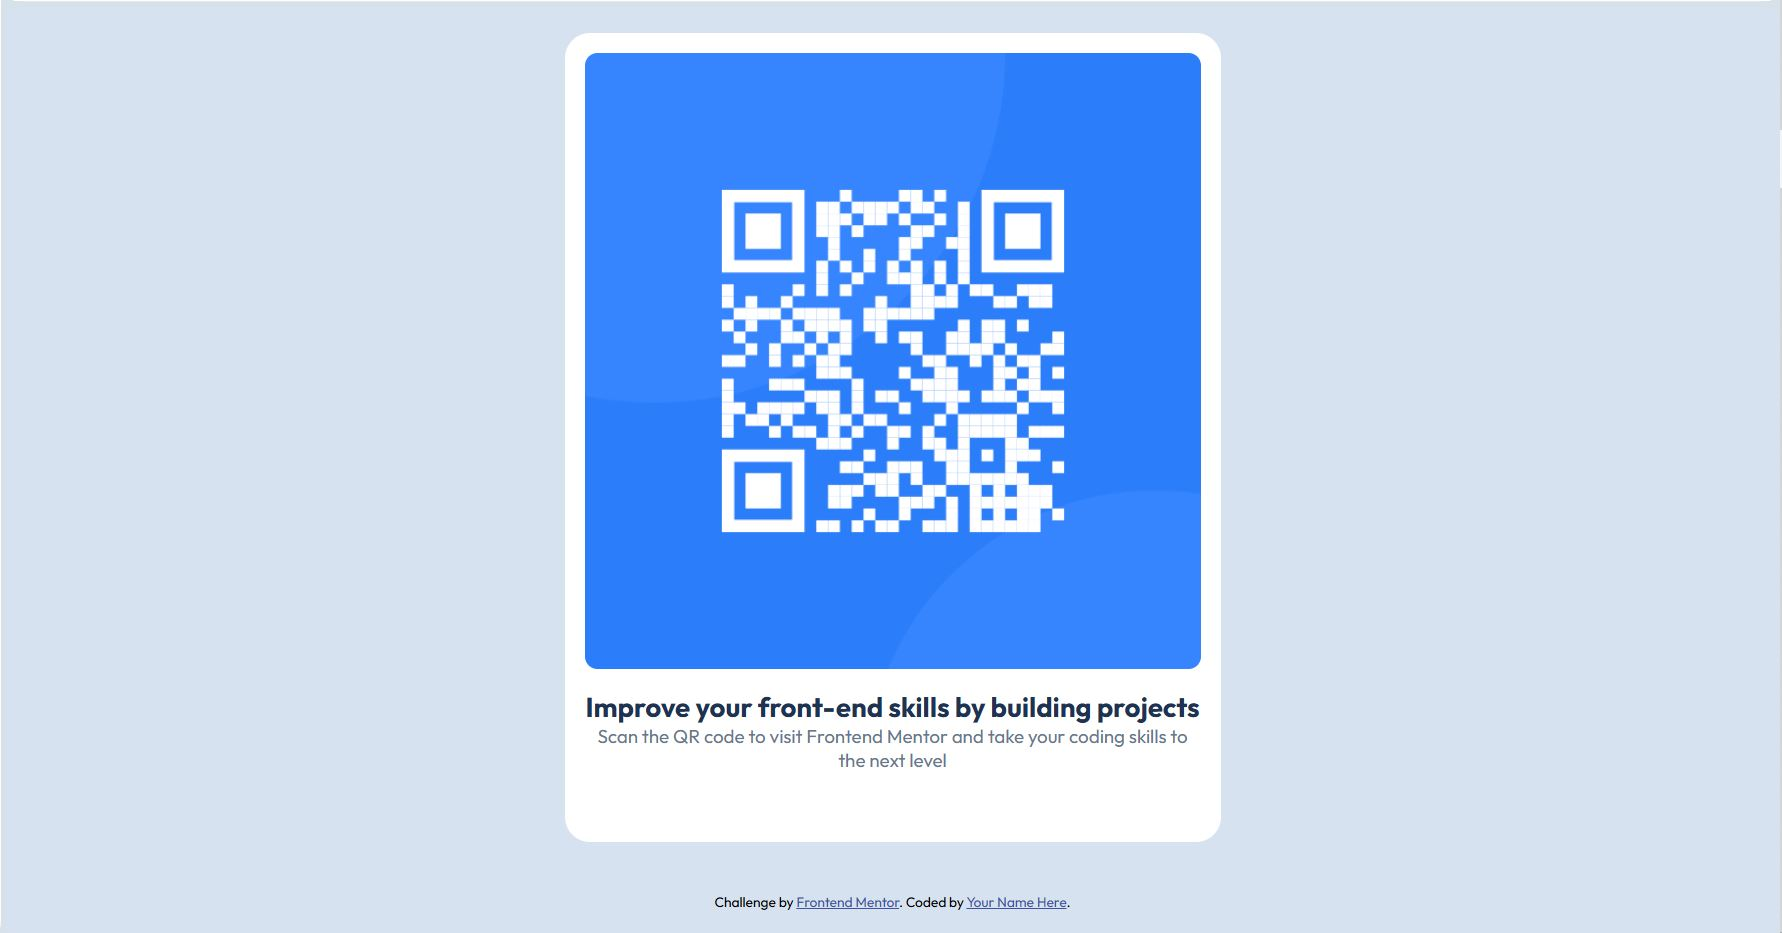
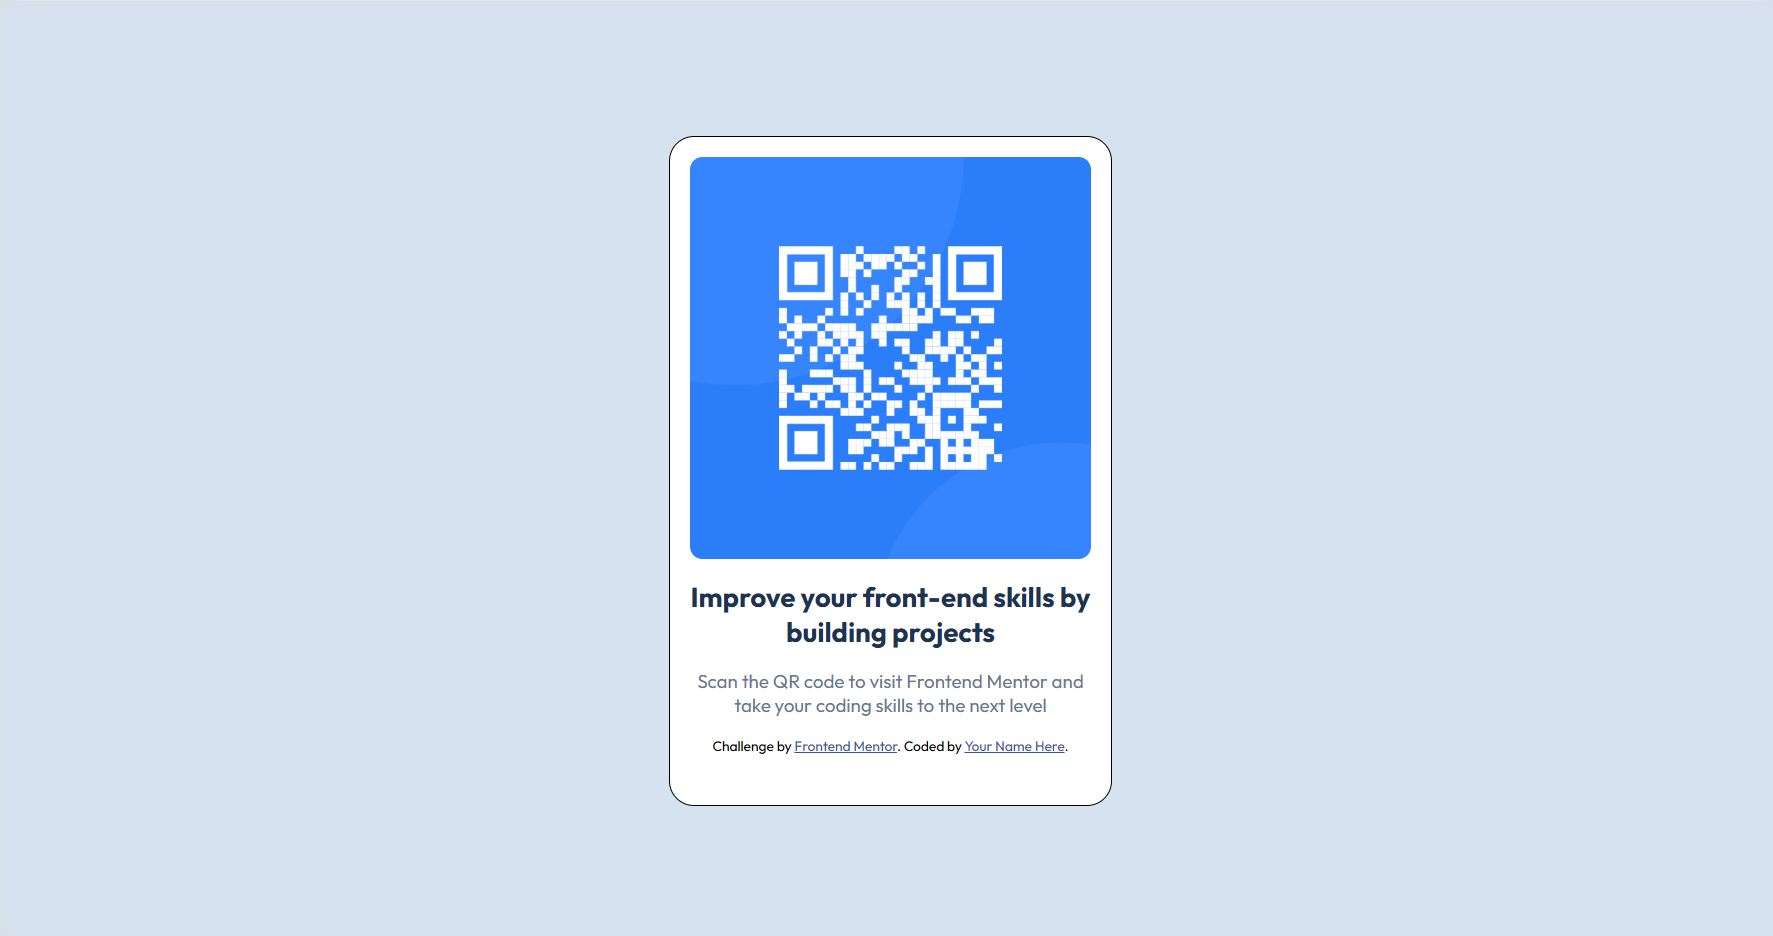
Accesibility: corrected accesibility error in HTML file

Changed region(s): [[0.3102, 0.0311, 0.6825, 0.9014], [0.4033, 0.9636, 0.5894, 0.9946], [0.9927, 0.1554, 1.0, 0.1865]]

diff --git a/style.css b/style.css
@@ -12,19 +12,19 @@
 
 /* CSS variables */
 
-:root{
-  --ff:"Outfit", sans-serif;
+:root {
+  --ff: "Outfit", sans-serif;
 
-  --primary-light-clr:hsl(0, 0%, 100%);
-  --primary-dark-clr:hsl(212, 45%, 89%);
-  --secondary-light-clr:hsl(216, 15%, 48%);
-  --secondary-dark-clr:hsl(218, 44%, 22%);
+  --primary-light-clr: hsl(0, 0%, 100%);
+  --primary-dark-clr: hsl(212, 45%, 89%);
+  --secondary-light-clr: hsl(216, 15%, 48%);
+  --secondary-dark-clr: hsl(218, 44%, 22%);
 
-  --fw-light:400;
-  --fw-bold:700;
-  
-  --fs-heading:22px;
-   --fs-base:15px;
+  --fw-light: 400;
+  --fw-bold: 700;
+
+  --fs-heading: 22px;
+  --fs-base: 15px;
 }
 
 /* global view */
@@ -39,9 +39,8 @@ body {
 }
 
 main {
-  width: 40%;
+  width: 30%;
   margin: auto;
- 
 }
 
 img {
@@ -60,26 +59,26 @@ body {
 }
 
 main {
-  background-color:var(--primary-light-clr);
+  background-color: var(--primary-light-clr);
   border-radius: 20px;
   padding: 16px 16px 40px 16px;
-  border:solid 1px #000;
+  border: solid 1px #000;
 }
 
 img {
   border-radius: 10px;
 }
 
-section{
+section {
   padding: 16px 0;
 }
 
-h1{
-    color: var(--secondary-dark-clr);
-    text-align: center;
-    font-size: var(--fs-heading);
-    font-weight: var(--fw-bold);
-    padding-bottom: 16px;
+h1 {
+  color: var(--secondary-dark-clr);
+  text-align: center;
+  font-size: var(--fs-heading);
+  font-weight: var(--fw-bold);
+  padding-bottom: 16px;
 }
 
 p {
@@ -97,46 +96,34 @@ p {
   color: hsl(228, 45%, 44%);
 }
 
-
 /* mobile */
 
-
-@media (min-width:700px) and (max-width:900px) {
-
-  main{
+@media (min-width: 700px) and (max-width: 900px) {
+  main {
     width: 50%;
   }
-
 }
 
-@media (min-width:550px) and (max-width:700px) {
-
-  main{
+@media (min-width: 550px) and (max-width: 700px) {
+  main {
     width: 65%;
   }
-
 }
 
-@media (min-width:450px) and (max-width:550px) {
-
-  main{
+@media (min-width: 450px) and (max-width: 550px) {
+  main {
     width: 70%;
   }
-
 }
 
-@media (min-width:400px) and (max-width:450px) {
-
-  main{
+@media (min-width: 400px) and (max-width: 450px) {
+  main {
     width: 75%;
   }
-
 }
 
-@media (min-width:375px) and (max-width:400px) {
-
-  main{
+@media (min-width: 375px) and (max-width: 400px) {
+  main {
     width: 80%;
   }
-
 }

diff --git a/index.html b/index.html
@@ -34,13 +34,14 @@
           to the next level
         </p>
       </section>
-    </main>
-
-    <div class="attribution">
+      <div class="attribution">
       Challenge by
       <a href="https://www.frontendmentor.io?ref=challenge" target="_blank"
         >Frontend Mentor</a
       >. Coded by <a href="#">Your Name Here</a>.
     </div>
+    </main>
+
+    
   </body>
 </html>
